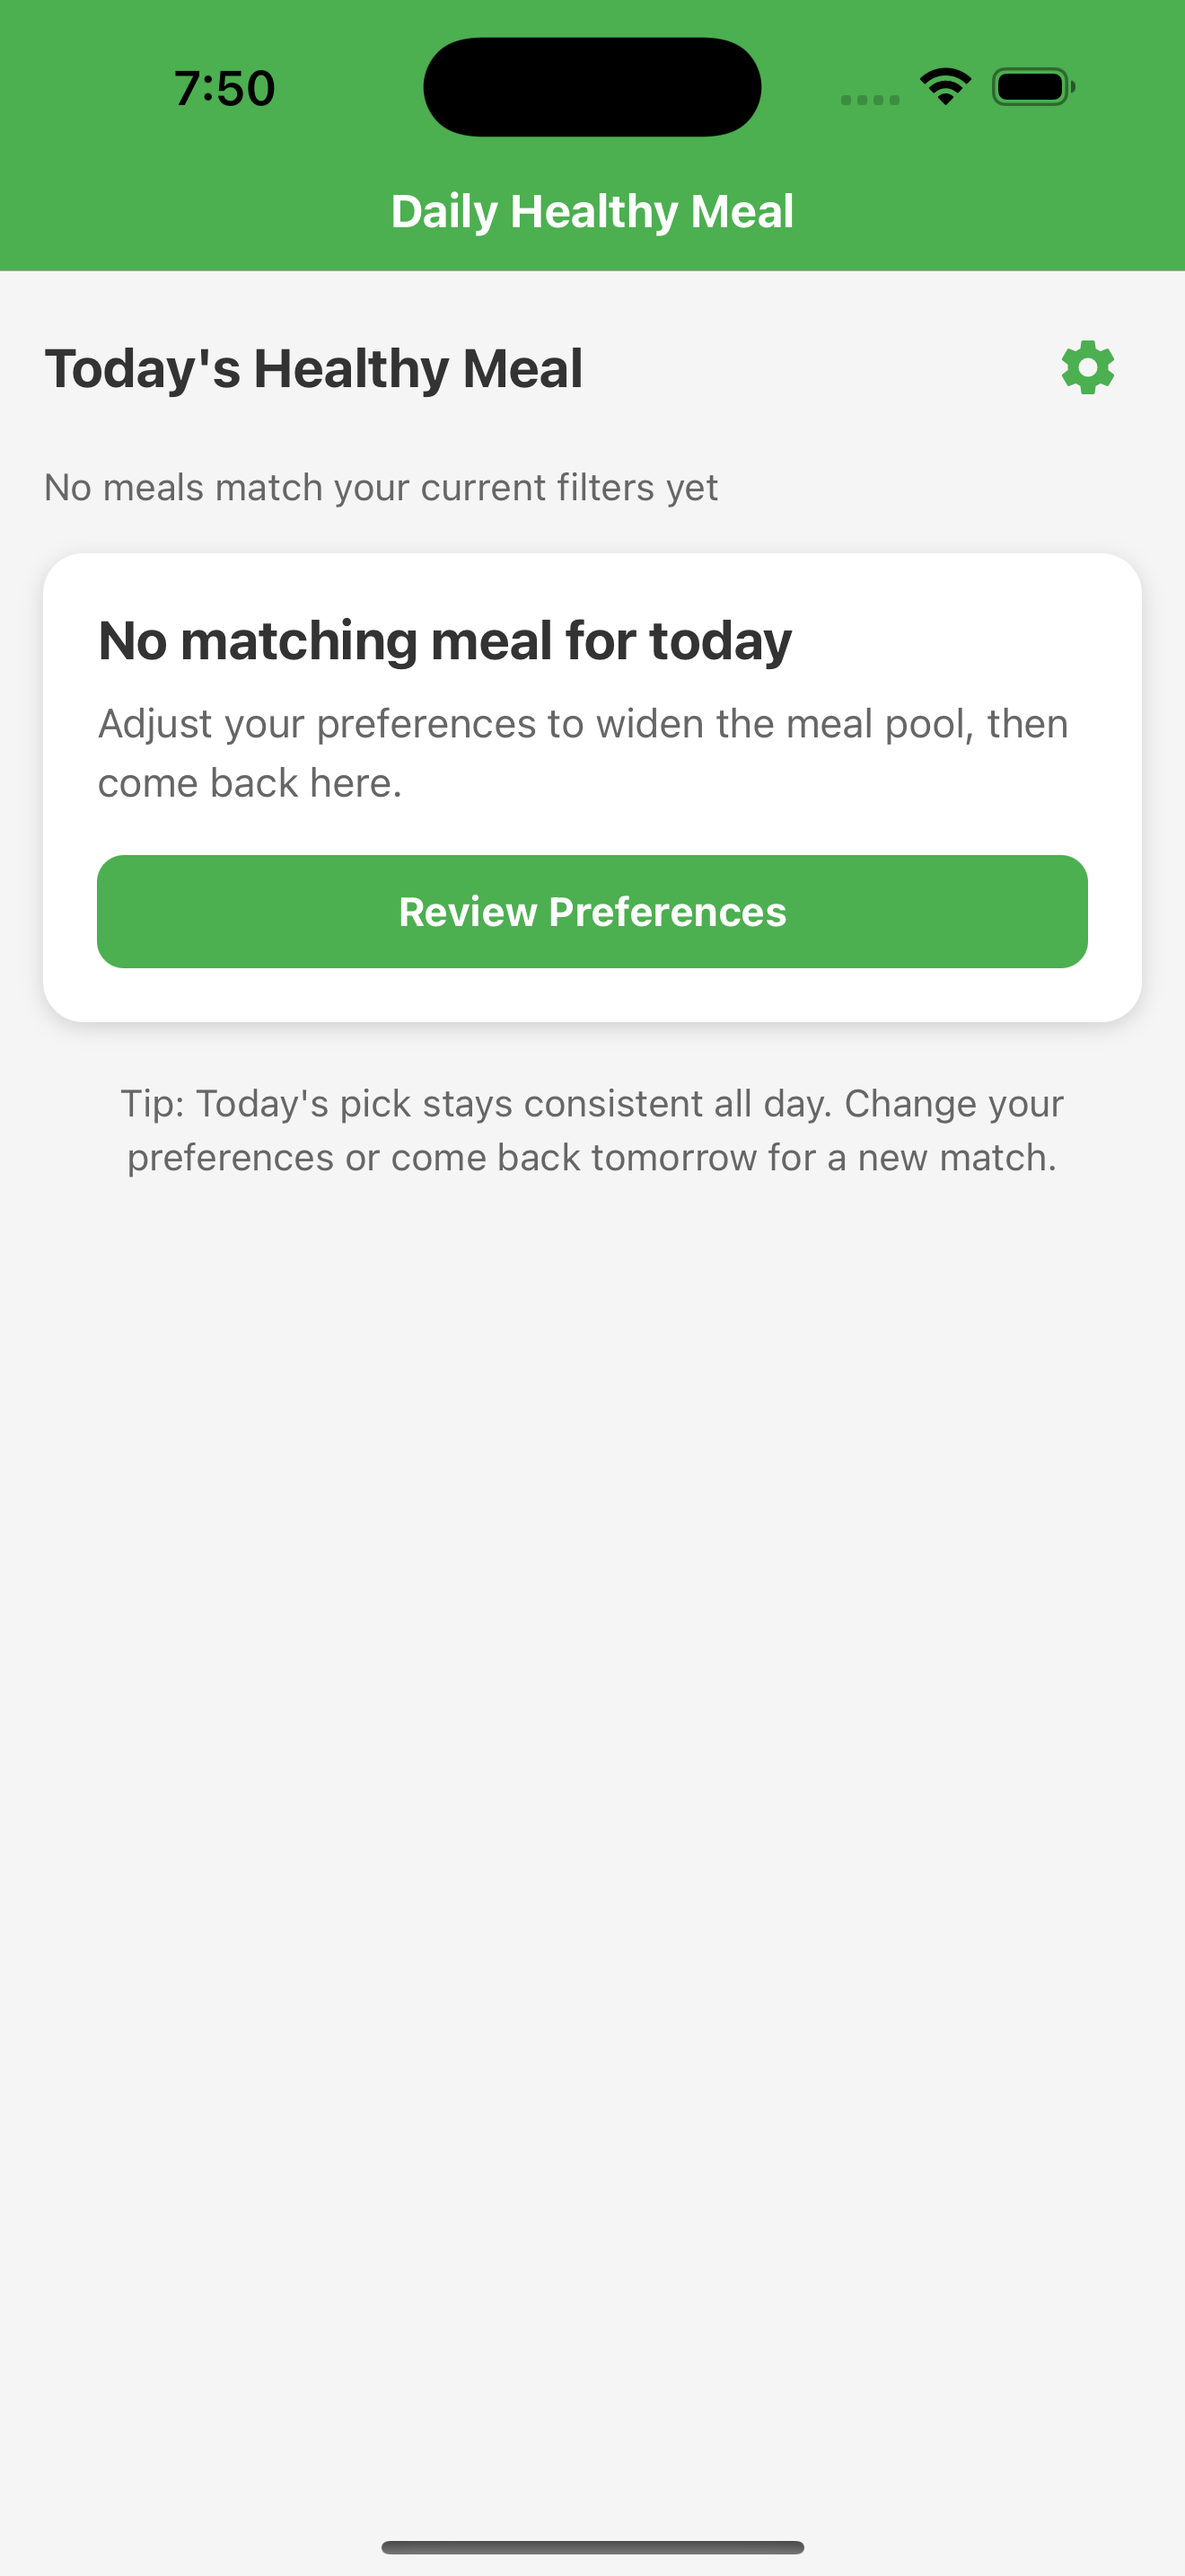
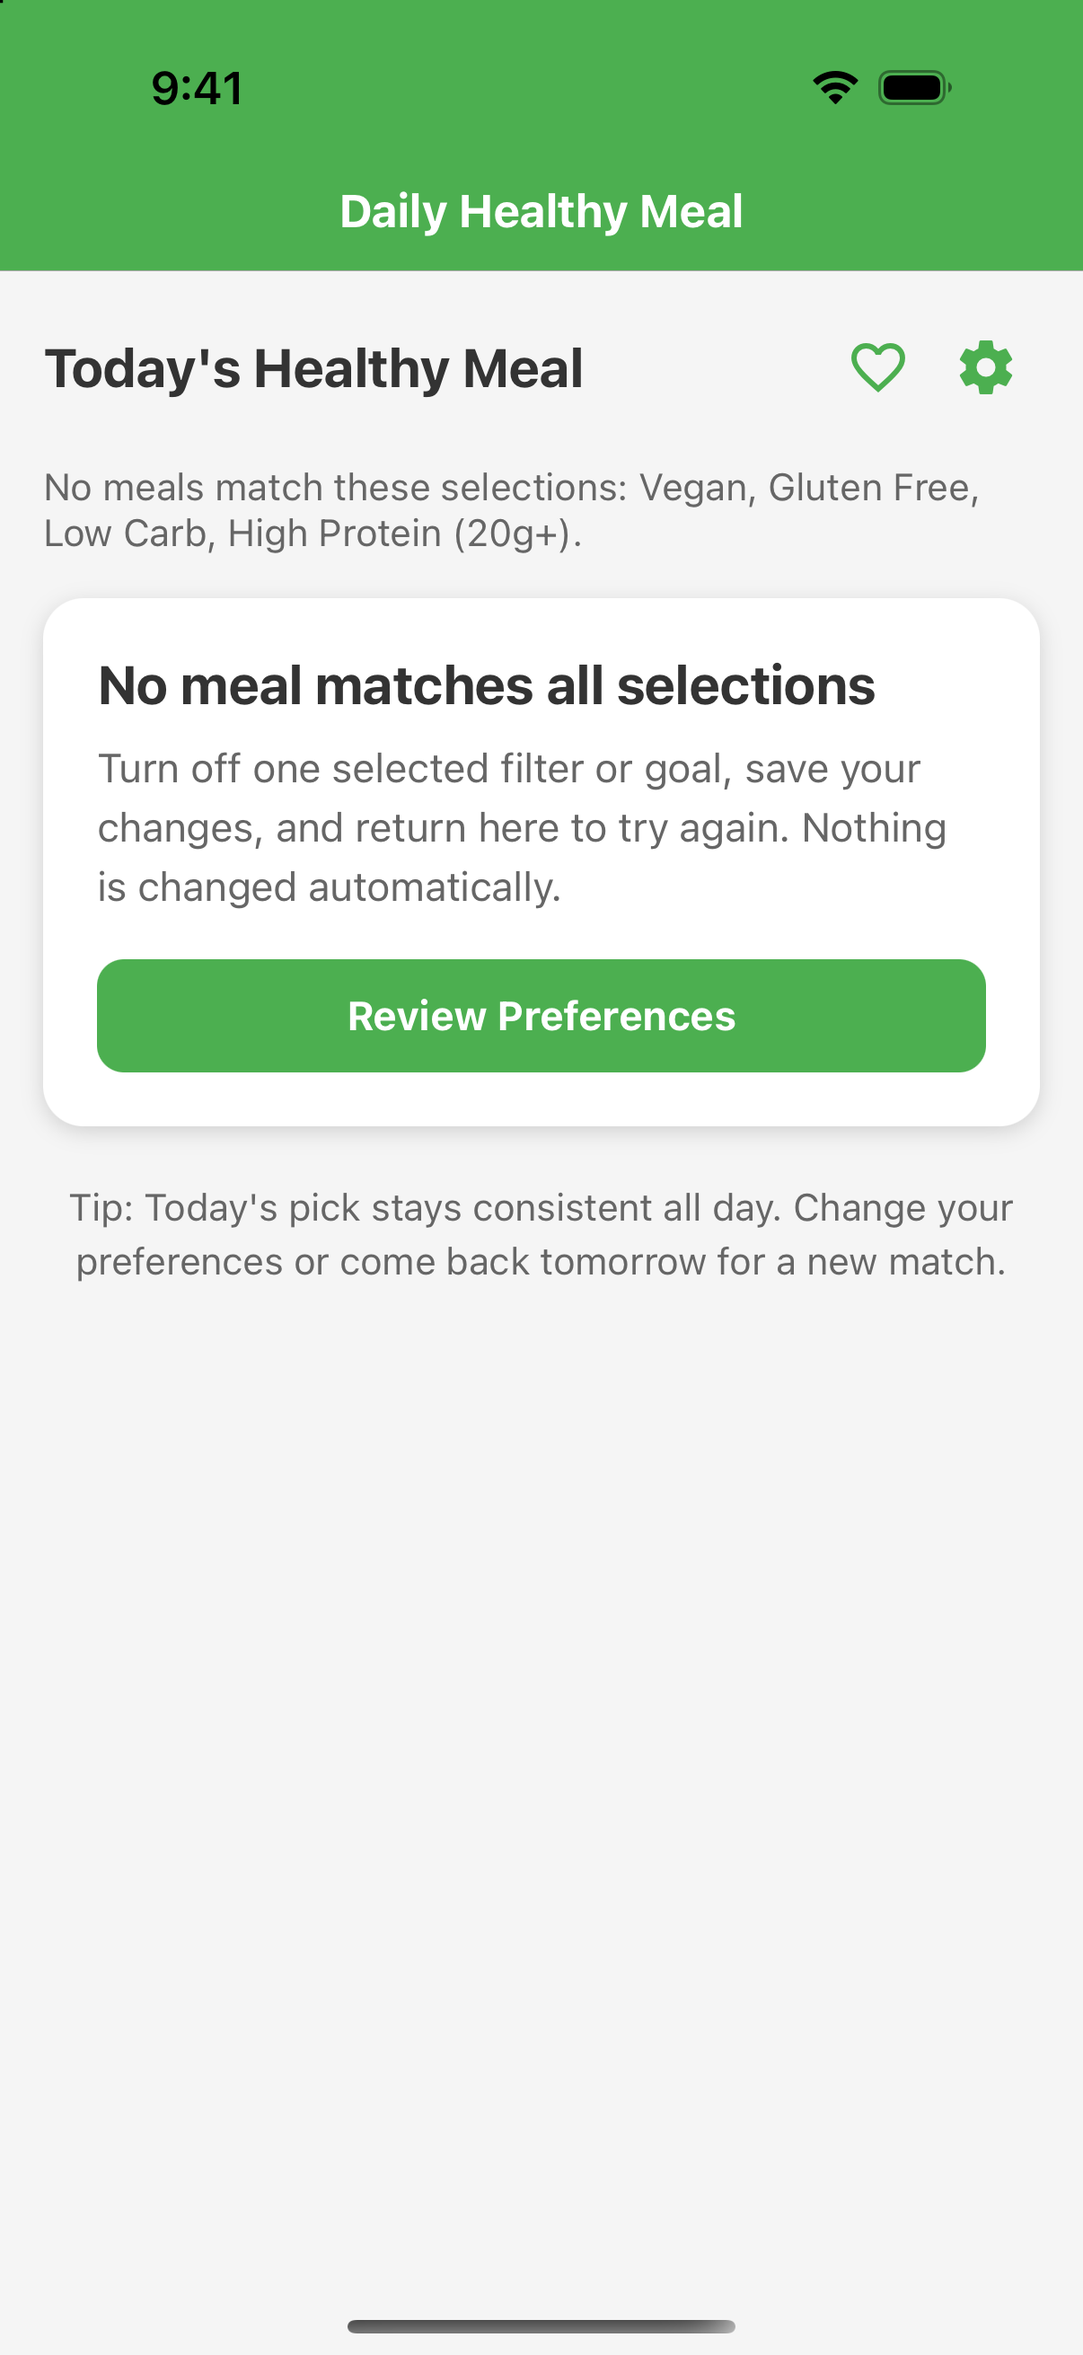
docs: rewrite README and refresh screenshots
- Restructure the README around what the app does, how the daily pick
  and filters work, setup, testing and CI, and project structure.
- Drop the resume/self-promotion sections and fix stale numbers
  (5 screens, 14 suites, 78 tests) and file references.
- Remove the unsupported `npm run web` instructions (no web deps installed).
- Link the product case study in docs/consulting-case-study.
- Re-shoot all screenshots with the current UI (Favorites, High Protein
  switch, badges) and add a Favorites screenshot.

diff --git a/README.md b/README.md
@@ -1,243 +1,101 @@
-# Healthy Meal RN
+# Healthy Meal
 
-Healthy Meal RN is an Expo + React Native app that suggests a deterministic healthy meal of the day, lets users save dietary preferences locally, and shows recipe details in a simple mobile-first flow.
+[![CI](https://github.com/amu3dev/healthy_meal_rn/actions/workflows/ci.yml/badge.svg)](https://github.com/amu3dev/healthy_meal_rn/actions/workflows/ci.yml)
+![Expo SDK 52](https://img.shields.io/badge/Expo_SDK-52-000020?logo=expo)
+![React Native 0.76](https://img.shields.io/badge/React_Native-0.76-61DAFB?logo=react)
+![Tests](https://img.shields.io/badge/tests-78_passing-4CAF50)
 
-## Current Status
-
-This project is now beyond the original tutorial-style prototype stage. It currently includes:
-
-- 4 production-like screens wired through React Navigation
-- a 25-meal catalog with broader dietary coverage
-- shared preference state access through a reusable hook
-- canonical meal lookup by `mealId` instead of passing full objects through navigation
-- a separate Explore gallery so users can browse more meals without breaking the daily-pick concept
-- resilient remote image rendering with loading and fallback states
-- shared theme tokens for colors, spacing, radii, and card shadows
-- accessibility labels and loading semantics for key interactive flows
-- 10 Jest test suites and 41 automated tests covering logic, data integrity, hooks, components, screen behavior, and one integration seam
-- a GitHub Actions workflow that validates the repo on every push and pull request
-
-## Demo
+A React Native app that picks one healthy meal for you each day, filtered by your dietary needs. Browse more ideas in a swipeable gallery, open full recipes, and save the ones you like. Your data stays on the device: no account and no backend.
 
 <p align="center">
-  <img src="docs/screenshots/demo.gif" alt="Healthy Meal RN demo" width="360" />
+  <img src="docs/screenshots/demo.gif" alt="Healthy Meal demo: daily pick, Explore gallery, recipe details, and favorites" width="320" />
 </p>
-<p align="center">
-  <em>Quick preview of the daily meal flow, preferences update, Explore gallery, and recipe detail experience.</em>
-</p>
+
+## Features
+
+- **A daily pick that stays put.** One meal per day, chosen from the meals that match your filters. It doesn't reshuffle when you refresh; it changes when the day or your filters change.
+- **Dietary filters and meal goals.** Vegetarian, vegan, gluten-free and dairy-free filters, plus low-carb and high-protein (20g+) goals. Selections combine, so a meal must match all of them.
+- **Explore gallery.** Swipe through every matching meal in a shuffled order, with Previous, Next and Shuffle Mix controls. A High Protein switch narrows the gallery for the current visit without changing your saved preferences.
+- **Recipe details.** Nutrition (calories, protein, carbs, fats, fiber), prep time, difficulty, cuisine, servings, ingredients and step-by-step instructions.
+- **Favorites.** Tap the heart on any recipe and find it later in your Favorites list, newest first.
+- **Handles the unhappy paths.** Clear messages when no meal matches your filters, retry buttons when saved data can't be read, and fallback cards when a photo fails to load.
+- **Accessible by default.** Screen-reader labels, hints and states on buttons, switches and loading screens.
 
 ## Screenshots
 
 <table>
   <tr>
-    <td align="center">
-      <strong>Home</strong><br />
-      <img src="docs/screenshots/home.png" alt="Home screen" width="280" />
-    </td>
-    <td align="center">
-      <strong>Preferences</strong><br />
-      <img src="docs/screenshots/preferences.png" alt="Preferences screen" width="280" />
-    </td>
-    <td align="center">
-      <strong>Preferences With Filters</strong><br />
-      <img src="docs/screenshots/preferences-on.png" alt="Preferences screen with filters enabled" width="280" />
-    </td>
+    <td align="center"><strong>Daily pick</strong><br /><img src="docs/screenshots/home.png" alt="Home screen with today's meal" width="240" /></td>
+    <td align="center"><strong>Explore</strong><br /><img src="docs/screenshots/explore.png" alt="Explore gallery" width="240" /></td>
+    <td align="center"><strong>Explore, high protein</strong><br /><img src="docs/screenshots/explore-filtered.png" alt="Explore gallery with the High Protein switch on" width="240" /></td>
   </tr>
   <tr>
-    <td align="center">
-      <strong>Explore Gallery</strong><br />
-      <img src="docs/screenshots/explore-1.png" alt="Explore gallery screen" width="280" />
-    </td>
-    <td align="center">
-      <strong>Explore Gallery Alt</strong><br />
-      <img src="docs/screenshots/explore-2.png" alt="Alternate explore gallery screen" width="280" />
-    </td>
-    <td align="center">
-      <strong>Shuffle Mix</strong><br />
-      <img src="docs/screenshots/shuffle-mix.png" alt="Explore shuffle mix screen" width="280" />
-    </td>
+    <td align="center"><strong>Recipe details</strong><br /><img src="docs/screenshots/recipe-detail.png" alt="Recipe details with nutrition and favorite button" width="240" /></td>
+    <td align="center"><strong>Ingredients and steps</strong><br /><img src="docs/screenshots/instruc-ingred.png" alt="Recipe ingredients and instructions" width="240" /></td>
+    <td align="center"><strong>Favorites</strong><br /><img src="docs/screenshots/favorites.png" alt="Favorite meals list" width="240" /></td>
   </tr>
   <tr>
-    <td align="center">
-      <strong>Recipe Detail</strong><br />
-      <img src="docs/screenshots/recipe-detail.png" alt="Recipe detail screen" width="280" />
-    </td>
-    <td align="center">
-      <strong>Recipe Instructions</strong><br />
-      <img src="docs/screenshots/instruc-ingred.png" alt="Recipe instructions screen" width="280" />
-    </td>
-    <td align="center">
-      <strong>No Match State</strong><br />
-      <img src="docs/screenshots/no-match.png" alt="No match state" width="280" />
-    </td>
+    <td align="center"><strong>Preferences</strong><br /><img src="docs/screenshots/preferences.png" alt="Preferences screen" width="240" /></td>
+    <td align="center"><strong>Preferences set</strong><br /><img src="docs/screenshots/preferences-on.png" alt="Preferences with filters enabled" width="240" /></td>
+    <td align="center"><strong>No match</strong><br /><img src="docs/screenshots/no-match.png" alt="Empty state when no meal matches the filters" width="240" /></td>
   </tr>
 </table>
 
-## Why This Project Stands Out
+## How it works
 
-- Builds a complete multi-screen mobile flow with React Navigation.
-- Persists user preferences locally with AsyncStorage through a shared `usePreferences` hook.
-- Uses deterministic daily selection instead of random reshuffling on every refresh.
-- Resolves recipe detail screens from a canonical data source using `mealId`.
-- Separates the stable daily recommendation from a swipeable Explore gallery.
-- Handles remote image failures gracefully with cached image loading and fallback UI.
-- Includes accessibility labels for key buttons, switches, and loading states.
-- Handles no-match and missing-data states instead of only the happy path.
-- Ships with a lightweight GitHub Actions workflow to validate the repo on every push and pull request.
+**Daily pick.** The app filters the catalog by your saved preferences, then hashes today's local date together with your active filters to choose one of the matching meals. The same day and filters always give the same meal, and changing either gives a new one. See `getDailyMeal` in [`lib/mealUtils.js`](lib/mealUtils.js).
 
-## Features
+**Filtering.** Each meal carries dietary tags. Selected filters and goals are combined with AND. High protein isn't a hand-set tag: it's worked out from the meal's protein value (20g or more), so the label can't drift from the nutrition data.
 
-- Daily healthy meal suggestion on the home screen
-- Swipeable Explore gallery with `Previous`, `Next`, and `Shuffle Mix` controls
-- Dietary filters for vegetarian, vegan, gluten-free, dairy-free, low-carb, and high-protein preferences
-- 25-meal catalog with broader coverage across common dietary combinations
-- Persistent preferences saved on device
-- Recipe detail screen with nutrition, ingredients, and cooking steps
-- Expanded meal metadata including prep time, difficulty, cuisine, servings, and fiber
-- Cached image loading with loading indicators and graceful fallback cards
-- Empty-state guidance when no meals match the selected preferences
-- Accessibility labels on key interactive elements and progress semantics for loading states
-- Pull-to-refresh that reloads the current daily selection logic
+**Storage.** Preferences and favorites are saved on the device with AsyncStorage and never sent anywhere. Meal photos load from Unsplash and are cached on the device.
 
-## Tech Stack
+## Getting started
 
-- Expo SDK 52
-- React Native 0.76
-- React Navigation native stack
-- AsyncStorage for local persistence
-- `expo-image` for cached remote image rendering
-- Jest + React Native Testing Library for automated tests
-- lightweight shared design tokens through `lib/theme.js`
-
-## Architecture Notes
-
-- `data/meals.js`
-  Stores the current meal catalog and metadata.
-- `lib/mealUtils.js`
-  Contains deterministic daily meal selection, filtering, summary generation, and canonical meal lookup.
-- `lib/preferences.js`
-  Contains preference defaults, normalization helpers, and formatting helpers.
-- `lib/theme.js`
-  Centralizes shared colors, spacing, radii, and shadow styles.
-- `lib/types.js`
-  Documents the `Meal` and `Preferences` shapes with lightweight JSDoc typedefs.
-- `hooks/usePreferences.js`
-  Centralizes AsyncStorage-backed preference load/save/toggle behavior.
-- `components/MealCard.js`
-  Reuses the shared tappable meal summary layout between Home and Explore.
-- `components/MealImage.js`
-  Wraps remote meal imagery with caching, loading feedback, and fallback UI.
-
-## Project Structure
-
-```text
-.
-├── App.js
-├── app.json
-├── components/
-│   ├── MealCard.js
-│   └── MealImage.js
-├── data/
-│   └── meals.js
-├── docs/
-│   └── screenshots/
-│       ├── demo.gif
-│       ├── demo.mov
-│       ├── explore-1.png
-│       ├── explore-2.png
-│       ├── home.png
-│       ├── instruc-ingred.png
-│       ├── no-match.png
-│       ├── preferences-on.png
-│       ├── preferences.png
-│       ├── recipe-detail.png
-│       └── shuffle-mix.png
-├── hooks/
-│   └── usePreferences.js
-├── lib/
-│   ├── mealUtils.js
-│   ├── preferences.js
-│   ├── theme.js
-│   └── types.js
-├── screens/
-│   ├── ExploreScreen.js
-│   ├── HomeScreen.js
-│   ├── PreferencesScreen.js
-│   └── RecipeDetailScreen.js
-├── __tests__/
-│   ├── ExploreScreen.test.js
-│   ├── HomeScreen.test.js
-│   ├── HomeScreen.integration.test.js
-│   ├── PreferencesScreen.test.js
-│   ├── RecipeDetailScreen.test.js
-│   ├── mealUtils.test.js
-│   ├── mealsData.test.js
-│   ├── MealImage.test.js
-│   ├── preferences.test.js
-│   └── usePreferences.test.js
-└── assets/
-```
-
-## Local Setup
+**Requirements:** Node.js 22 (the version CI uses) and either the [Expo Go](https://expo.dev/go) app on a phone, or an iOS Simulator or Android emulator.
 
 ```bash
 npm install
 npm start
 ```
 
-Useful Expo shortcuts:
+Then scan the QR code with Expo Go, or press `i` for the iOS Simulator or `a` for an Android emulator. Shortcuts: `npm run ios` and `npm run android`.
 
-- `npm run ios`
-- `npm run android`
-- `npm run web`
-
-## Quality Checks
-
-Run the local validation scripts:
+## Testing and quality
 
 ```bash
 npm run check
 ```
 
-This currently verifies:
+This runs the same checks as CI:
 
-- ESLint (`eslint-config-expo`) across the app source, with zero warnings allowed
-- Expo dependency compatibility with the installed SDK
-- Pure logic and data validation tests for meal selection, preferences, and meal catalog integrity
-- Direct abstraction tests for `usePreferences` and `MealImage`
-- Screen-level behavior for Explore, Home, Preferences, and Recipe Detail
-- One integration-style Home test covering `AsyncStorage -> preferences load -> daily meal render`
+- **ESLint** with `eslint-config-expo`, with zero warnings allowed (`npm run lint`).
+- **Expo dependency check:** installed packages match Expo SDK 52 (`npm run check:expo`).
+- **Jest + React Native Testing Library:** 14 suites and 78 tests (`npm test`) covering filtering and daily-pick logic, catalog data integrity, the preferences and favorites hooks, shared components, every screen, and one integration test from storage through to the rendered daily meal.
 
-You can also run tests directly with:
+GitHub Actions runs `npm run check` on every push to `master` and on every pull request ([workflow](.github/workflows/ci.yml)).
 
-```bash
-npm test
+## Project structure
+
+```text
+App.js            Navigation stack (Home, Explore, Recipe Details, Preferences, Favorites)
+screens/          One file per screen
+components/       MealCard (shared meal summary) and MealImage (cached image with fallback)
+hooks/            usePreferences and useFavorites (AsyncStorage-backed state)
+lib/              Meal selection and filtering, preferences, favorites, theme tokens, JSDoc types
+data/meals.js     The 25-meal catalog
+__tests__/        Jest test suites
+docs/             Screenshots and the product case study
 ```
 
-## Manual Test Scenarios
+## Tech stack
 
-Use these quick checks to verify the main product logic:
+Expo SDK 52 · React Native 0.76 (New Architecture) · React 18 · React Navigation 7 (native stack) · AsyncStorage · expo-image · Jest · React Native Testing Library · ESLint
 
-1. Open the app with all filters off and confirm the home screen shows a meal with `Showing all meals`.
-2. Enable `High Protein` and confirm a high-protein meal is shown.
-3. Enable `Vegan` and confirm a vegan meal is shown.
-4. Enable `Vegan` + `High Protein` + `Low Carb` + `Gluten Free` and confirm the no-match empty state appears.
-5. Return to Preferences, loosen filters, and confirm a meal appears again.
-6. Open `Explore More Meals` from Home and confirm you can swipe between matching meals.
-7. Use `Shuffle Mix` in Explore and confirm the gallery resets to a fresh order.
-8. Tap a meal card and confirm Recipe Detail opens correctly from `mealId`-based navigation.
-9. Temporarily break a meal image URL and confirm the fallback image card appears instead of a blank broken image.
+## Case study
 
-## Resume-Friendly Highlights
+This project is also a worked product case study: a technical audit, product thesis, prioritized roadmap and implementation briefs. See [`docs/consulting-case-study`](docs/consulting-case-study/README.md).
 
-- Designed and implemented a mobile meal recommendation flow using Expo and React Native.
-- Built client-side persistence and preference-aware filtering logic with reusable shared hooks.
-- Improved product reliability by adding graceful empty/error states, deterministic daily behavior, a separate Explore flow, resilient image fallbacks, and accessibility-aware UI labels.
-- Added automated testing for core logic, data integrity, hooks, components, and screen behavior.
-- Added an integration-style Home test to verify the real storage-to-selection-to-render path.
-- Added repository automation with GitHub Actions to validate dependency compatibility and source integrity.
+## Roadmap
 
-## Next Improvements
-
-- Move from JSDoc typedefs to TypeScript if the project grows further
-- Connect to a backend or CMS for dynamic meal content
+- Move from JSDoc types to TypeScript.
+- Load meals from a backend or CMS instead of a bundled file.
